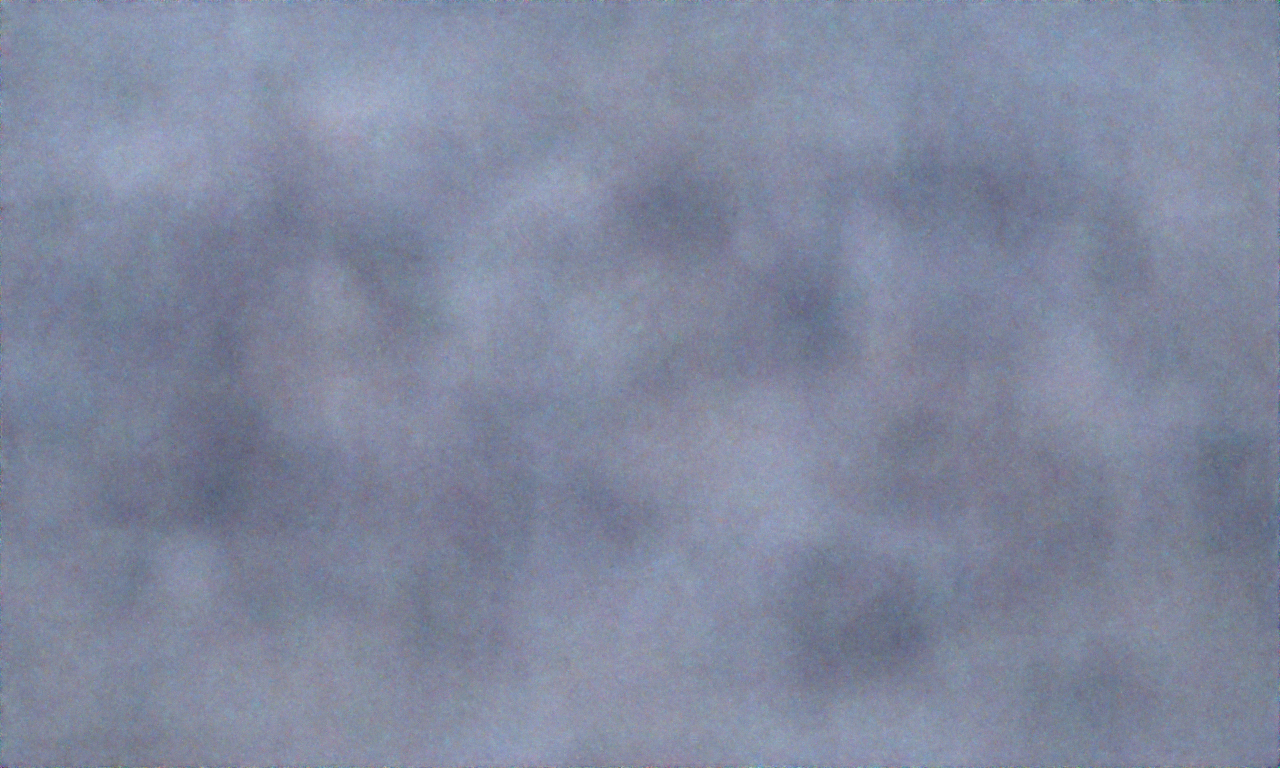
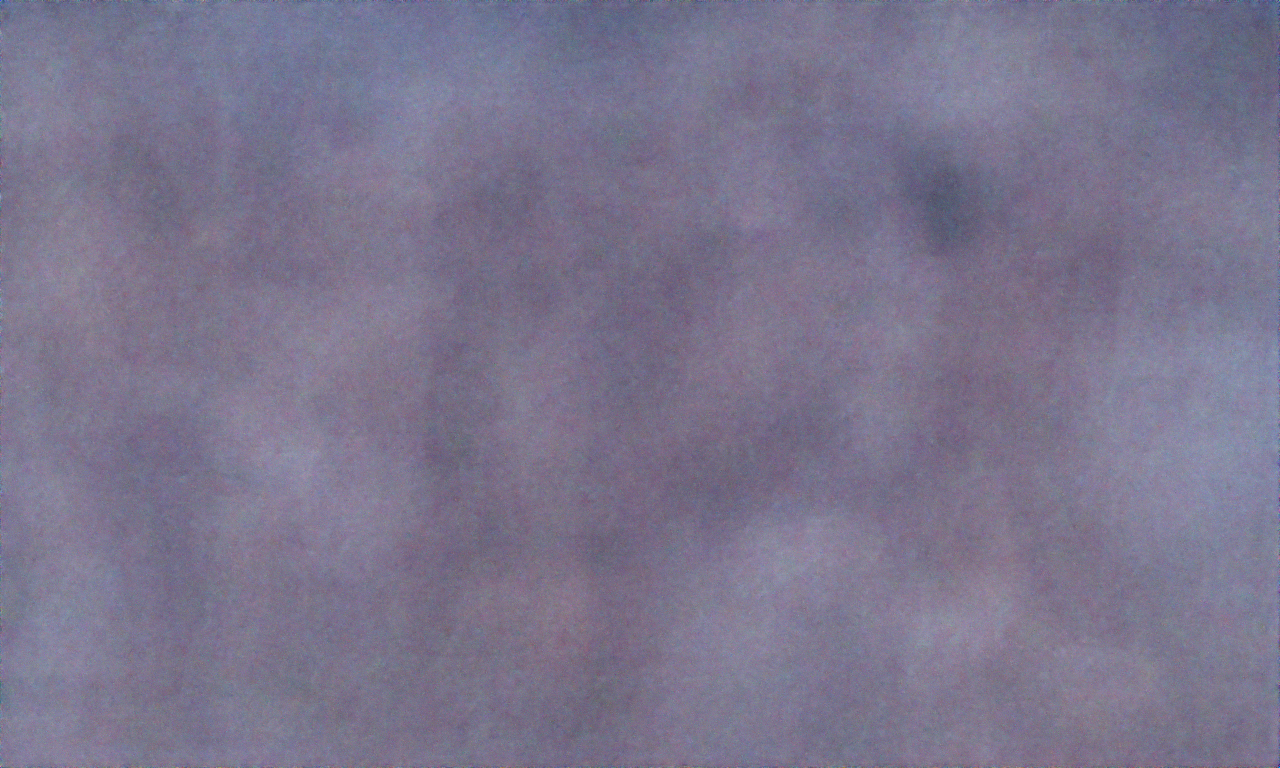
kopi

diff --git a/main.py b/main.py
@@ -1232,7 +1232,7 @@ text_prompts = [
         "crowd of tourists taking photographs:4",
 "a realistic magical attraction surrounded by tourists:4",
 "located in a town square",
-"optical illusion:5",
+"optical illusion:9",
 "by Edward Burne-Jones and Igor Morski:1",
          "by James Paick:8",
          "by Alejandro Burdisio:5"
